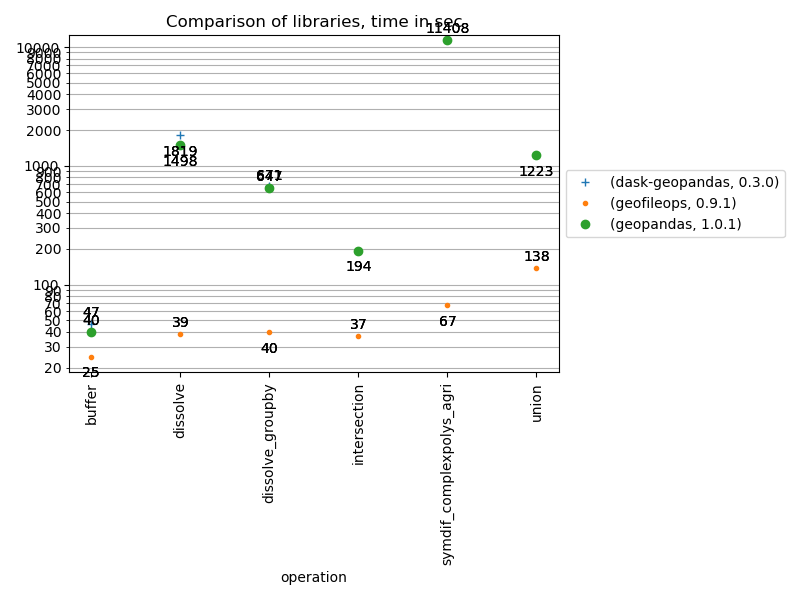
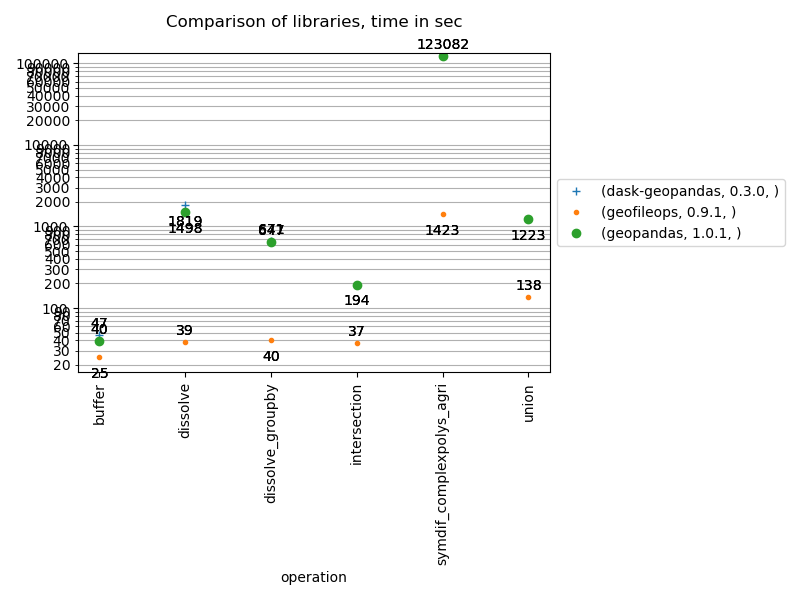
ENH: increase complexity of symdif_complexpolys_agri
To be able to clearly see performance difference between geofileops 0.9.1 and 0.10.0

Changed region(s): [[0.0312, 0.03, 0.9688, 0.96]]

diff --git a/reporter.py b/reporter.py
@@ -105,7 +105,7 @@ def generate_reports(results_path: Path, output_dir: Path):
     results_report_path = output_dir / "GeoBenchmark.png"
     save_chart(
         df=benchmark_maxversion_df,
-        title="Comparison of libraries, time in sec",
+        title="Comparison of libraries, time in sec\n",
         output_path=results_report_path,
         yscale="log",
         print_labels_on_points=True,
@@ -144,8 +144,8 @@ def save_chart(
     Render and save a chart.
 
     Args:
-        df (pd.DataFrame): _description_
-        title (str): _description_
+        df (pd.DataFrame): The data to plot. The index should be the x axis values.
+        title (str): The title of the chart.
         output_path (Path): _description_
         yscale (Literal["linear", "log", "symlog", "logit"], optional): y scale to use.
         y_value_formatter (str, optional): a formatter for the y axes and
@@ -272,8 +272,8 @@ def save_chart(
 
 
 if __name__ == "__main__":
-    # results_dir = Path(__file__).resolve().parent / "results_vector_ops"
-    results_dir = Path(__file__).resolve().parent / "results_zonalstats"
+    results_dir = Path(__file__).resolve().parent / "results_vector_ops"
+    # results_dir = Path(__file__).resolve().parent / "results_zonalstats"
     results_path = results_dir / "benchmark_results.csv"
     output_dir = results_dir
     generate_reports(results_path, output_dir)

diff --git a/benchmarks_vector_ops/benchmarks_geofileops.py b/benchmarks_vector_ops/benchmarks_geofileops.py
@@ -212,6 +212,20 @@ def _join_by_location_intersects(tmp_dir: Path) -> RunResult:
 
 
 def symdif_complexpolys_agri(tmp_dir: Path) -> RunResult:
+    """Symmetric difference between very complex polygons and standard polygons.
+
+    The complex polygons are created as such:
+
+        - each geometry is a multipolygon with several polygons
+        - each polygon has a large number of points
+        - the area for each (multipolygon) is a lot larger than the standard polygons,
+          so each complex polygon interacts with many standard polygons
+
+    Changelog:
+
+        - 2025-01-23: make complex polygons a lot more complex to be able to see the
+          difference between geofileops 0.9.1 and 0.10.0
+    """
     # Init
     function_name = inspect.currentframe().f_code.co_name  # type: ignore[union-attr]
 
@@ -221,11 +235,11 @@ def symdif_complexpolys_agri(tmp_dir: Path) -> RunResult:
     crs = info1.crs
     input2_path, input2_descr = testdata.create_testfile(
         bbox=bbox,
-        geoms=12,
-        polys_per_geom=1,
+        geoms=3,
+        polys_per_geom=4,
         points_per_poly=30_000,
-        poly_width=15_000,
-        poly_height=15_000,
+        poly_width=30_000,
+        poly_height=30_000,
         crs=crs,
         dst_dir=tmp_dir,
     )

diff --git a/benchmarks_vector_ops/benchmarks_geopandas.py b/benchmarks_vector_ops/benchmarks_geopandas.py
@@ -216,6 +216,20 @@ def intersection(tmp_dir: Path) -> RunResult:
 
 
 def symdif_complexpolys_agri(tmp_dir: Path) -> RunResult:
+    """Symmetric difference between very complex polygons and standard polygons.
+
+    The complex polygons are created as such:
+
+        - each geometry is a multipolygon with several polygons
+        - each polygon has a large number of points
+        - the area for each (multipolygon) is a lot larger than the standard polygons,
+          so each complex polygon interacts with many standard polygons
+
+    Changelog:
+
+        - 2025-01-23: make complex polygons a lot more complex to be able to see the
+          difference between geofileops 0.9.1 and 0.10.0
+    """
     # Init
     function_name = inspect.currentframe().f_code.co_name  # type: ignore[union-attr]
 
@@ -225,11 +239,11 @@ def symdif_complexpolys_agri(tmp_dir: Path) -> RunResult:
     crs = info1.crs
     input2_path, input2_descr = testdata.create_testfile(
         bbox=bbox,
-        geoms=12,
-        polys_per_geom=1,
+        geoms=3,
+        polys_per_geom=4,
         points_per_poly=30_000,
-        poly_width=15_000,
-        poly_height=15_000,
+        poly_width=30_000,
+        poly_height=30_000,
         crs=crs,
         dst_dir=tmp_dir,
     )

diff --git a/run_benchmarks_vector_ops.py b/run_benchmarks_vector_ops.py
@@ -8,11 +8,11 @@ def main():
         benchmarker.run_benchmarks(
             benchmarks_subdir="benchmarks_vector_ops",
             results_subdir="results_vector_ops",
-            # modules=["benchmarks_geofileops"],
-            modules=["benchmarks_geopandas"],
+            modules=["benchmarks_geofileops"],
+            # modules=["benchmarks_geopandas"],
             # modules=["benchmarks_dask_geopandas"],
             # functions=["buffer"],
-            # functions=["symdif_complexpolys_agri"],
+            functions=["symdif_complexpolys_agri"],
         )
         return
 
